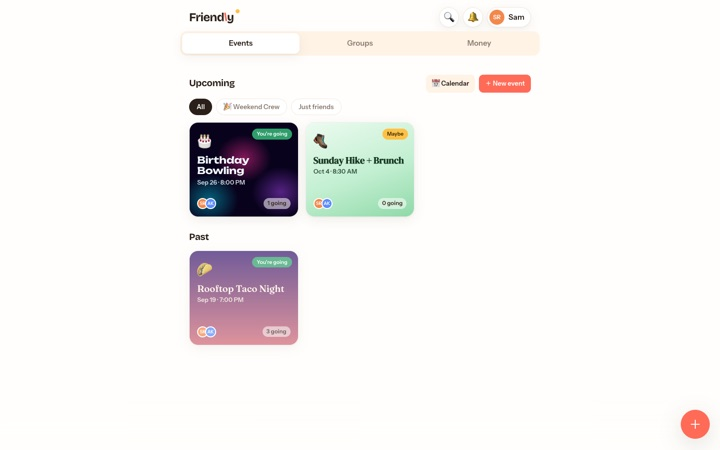
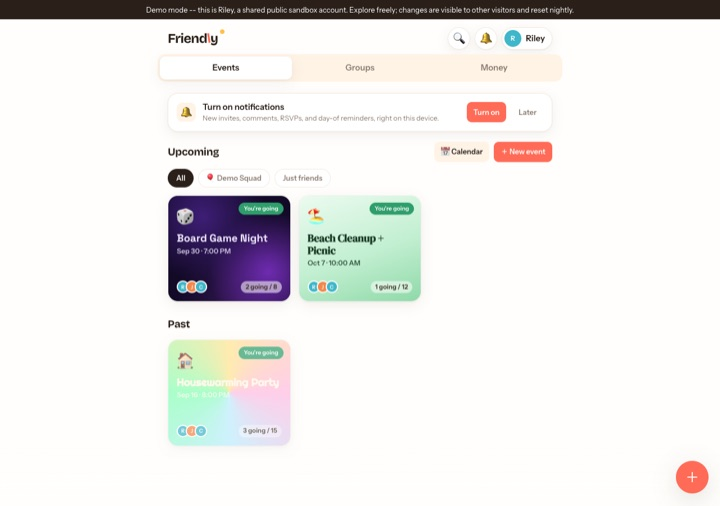
Point Friendly at its real, finished demo (no account needed)
The Friendly team shipped a proper public demo: a dedicated sandbox
account (Riley, Demo Squad) with its own seeded events, reachable at
officialfriendly.com/?demo=1 on both phones and desktop. Updated the
flagship panel's CTA, copy, links, and screenshot to match -- verified
end-to-end through the homepage's own in-page preview.

Changed region(s): [[0.0, 0.0, 1.0, 0.9022], [0.6111, 0.28, 0.7944, 0.3422], [0.9167, 0.9022, 1.0, 0.9956]]

diff --git a/index.html b/index.html
@@ -346,7 +346,7 @@
     <button class="thumb" onclick="openDemo('https://caemplaw.wes-griffin.com','California Employment Law')"><span class="tbar"><i></i><i></i><i></i><span class="u">caemplaw.wes-griffin.com</span></span><img src="shots/caemplaw.jpg" alt="California employment law course" loading="lazy"></button>
     <button class="thumb" onclick="openDemo('https://nutritionworthy.wes-griffin.com','Nutrition Worthy')"><span class="tbar"><i></i><i></i><i></i><span class="u">nutritionworthy.wes-griffin.com</span></span><img src="shots/nutritionworthy.jpg" alt="Nutrition Worthy site" loading="lazy"></button>
     <button class="thumb" onclick="openDemo('https://castle.wes-griffin.com','Wes\'s Castle')"><span class="tbar"><i></i><i></i><i></i><span class="u">castle.wes-griffin.com</span></span><img src="shots/castle.jpg" alt="Wes's Castle booking" loading="lazy"></button>
-    <button class="thumb" onclick="openDemo('https://officialfriendly.com','Friendly')"><span class="tbar"><i></i><i></i><i></i><span class="u">officialfriendly.com</span></span><img src="shots/friendly.jpg" alt="Friendly events screen" loading="lazy"></button>
+    <button class="thumb" onclick="openDemo('https://officialfriendly.com/?demo=1','Friendly')"><span class="tbar"><i></i><i></i><i></i><span class="u">officialfriendly.com</span></span><img src="shots/friendly.jpg" alt="Friendly demo screen" loading="lazy"></button>
     <button class="thumb" onclick="openDemo('https://theofficialiqtest.com','IQ Lab')"><span class="tbar"><i></i><i></i><i></i><span class="u">theofficialiqtest.com</span></span><img src="shots/iq.jpg" alt="IQ Lab" loading="lazy"></button>
   </div>
   <div class="rowm b" id="rowB">
@@ -391,18 +391,18 @@
       <div class="copy">
         <span class="tag on-dark">Flagship app · Live on the web &amp; App Store</span>
         <h3>Friendly, your friend group's <span class="serif">home base</span></h3>
-        <p>Plan the hangout, invite the group, RSVP, chat on the party wall, vote on polls, share the photos, and <b>settle up afterwards</b>, all in one place. A real friend group uses it every week. Installable web app plus a native iPhone app, with push notifications, calendar sync, and a shared backend with server-enforced privacy.</p>
+        <p>Plan the hangout, invite the group, RSVP, chat on the party wall, vote on polls, share the photos, and <b>settle up afterwards</b>, all in one place. A real friend group uses it every week. Try the demo below and click around a real sandbox group, no account needed.</p>
         <div class="mods"><span>Events</span><span>RSVPs</span><span>Groups</span><span>Chat</span><span>Polls</span><span>Photos</span><span>Split expenses</span><span>Calendar sync</span><span>Push</span><span>iOS app</span></div>
         <div class="actions">
-          <button class="btn btn-light" onclick="openDemo('https://officialfriendly.com','Friendly')">▶ See it live</button>
-          <a class="domlink" href="https://officialfriendly.com" target="_blank" rel="noopener">officialfriendly.com ↗</a>
+          <button class="btn btn-light" onclick="openDemo('https://officialfriendly.com/?demo=1','Friendly')">▶ Try the demo, no account needed</button>
+          <a class="domlink" href="https://officialfriendly.com/?demo=1" target="_blank" rel="noopener">officialfriendly.com ↗</a>
           <a class="domlink" href="https://apps.apple.com/app/id6810875052" target="_blank" rel="noopener">App Store ↗</a>
         </div>
       </div>
       <div class="shotside">
-        <div class="shot" onclick="openDemo('https://officialfriendly.com','Friendly')" role="button" tabindex="0" aria-label="Preview Friendly in page" onkeydown="if(event.key==='Enter'||event.key===' '){event.preventDefault();openDemo('https://officialfriendly.com','Friendly')}">
+        <div class="shot" onclick="openDemo('https://officialfriendly.com/?demo=1','Friendly')" role="button" tabindex="0" aria-label="Preview Friendly in page" onkeydown="if(event.key==='Enter'||event.key===' '){event.preventDefault();openDemo('https://officialfriendly.com/?demo=1','Friendly')}">
           <span class="sbar"><i></i><i></i><i></i><span class="u">officialfriendly.com</span></span>
-          <span class="imgwrap"><img src="shots/friendly.jpg" alt="Screenshot of the Friendly events screen, showing a real friend group's upcoming and past events"></span>
+          <span class="imgwrap"><img src="shots/friendly.jpg" alt="Screenshot of the Friendly demo: Board Game Night, Beach Cleanup + Picnic, and a past Housewarming Party"></span>
         </div>
       </div>
     </div>
